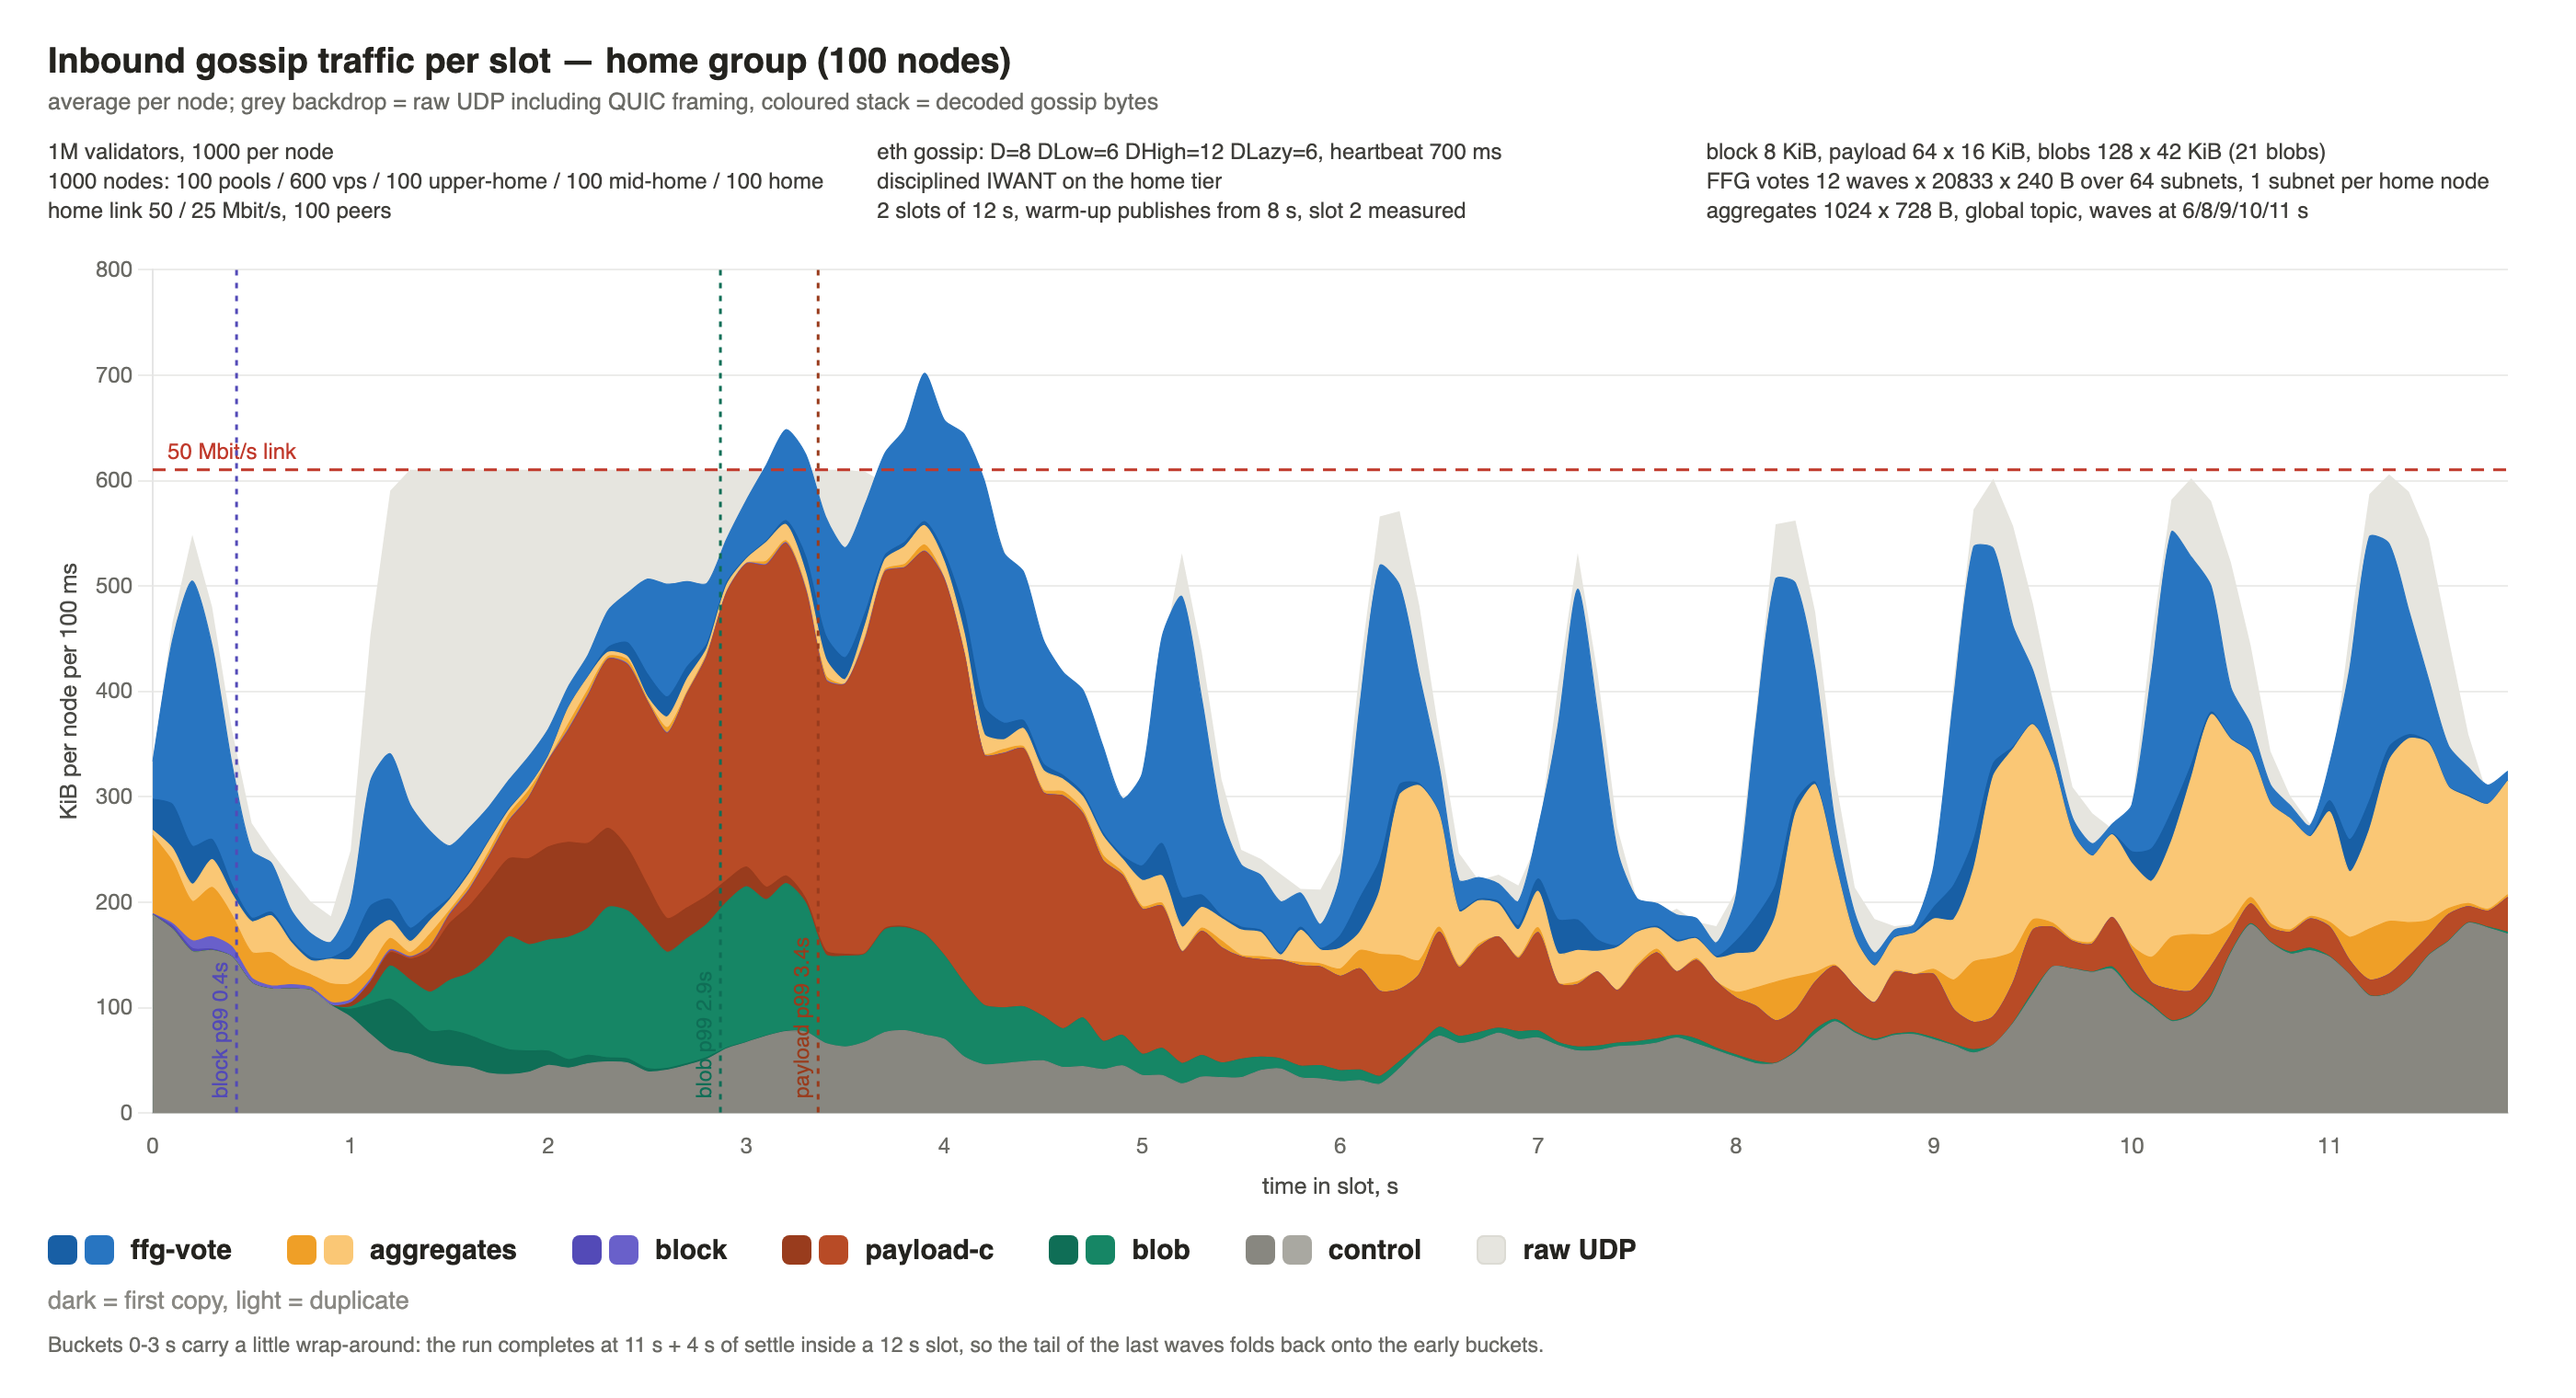
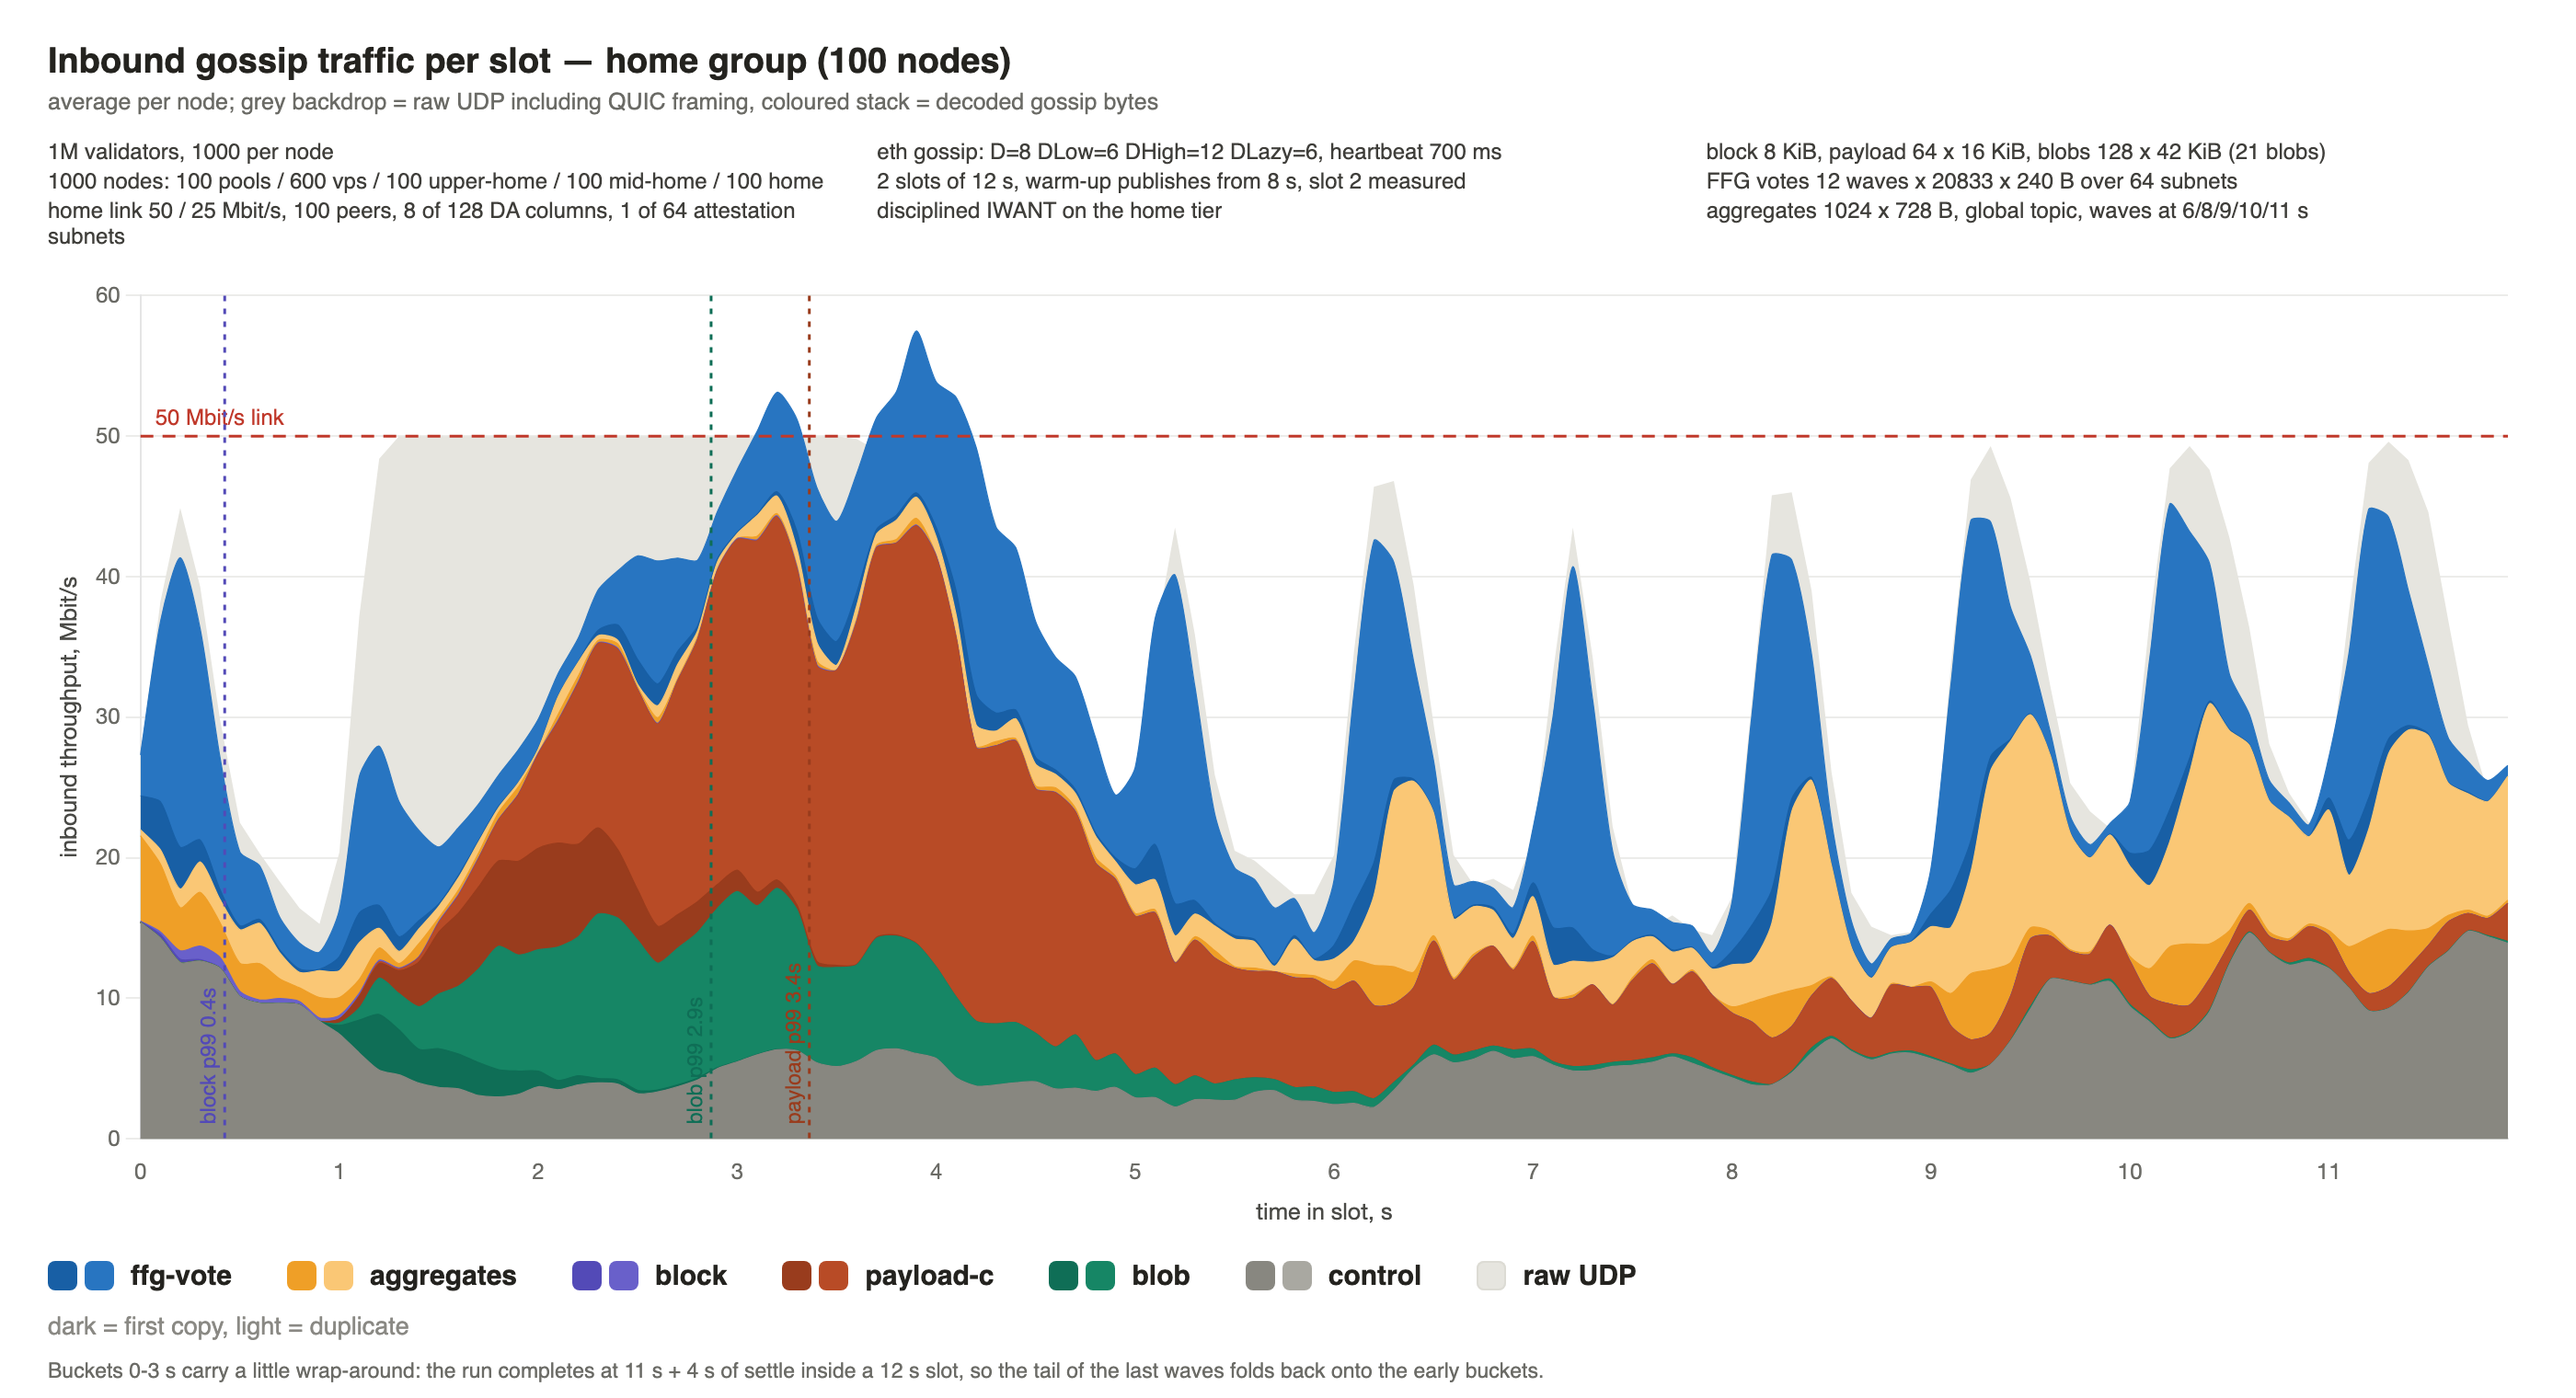
[Claude] Chart the slot profile as throughput, not bytes per bucket
KiB per 100 ms says nothing to a reader; Mbit/s does, and on that axis a
tier's capacity is the number printed on its link -- the raw UDP curve now
tops out exactly on the 50 Mbit/s line. Re-renders all four panels and
converts the utilisation table and the control figures in the text.

diff --git a/dc-slot-traffic-writeup.md b/dc-slot-traffic-writeup.md
@@ -140,20 +140,21 @@ Notes on the two attestation rows, which are the fast-finality-specific part:
 
 ## Traffic profile
 
-Inbound bytes per node, averaged over the group, in 100 ms buckets across the measured slot. The
+Inbound throughput per node, averaged over the group, in 100 ms buckets across the measured slot —
+the y axis is Mbit/s, so a tier's link capacity is the number printed on its link. The
 stack is decoded gossip, split per message type, with the first copy of a message in the darker
 shade and its duplicates in the lighter one. The grey backdrop is raw UDP — the gap between it and
 the stack is QUIC and framing overhead.
 
 How close each tier comes to its own downlink, over the measured slot:
 
-| group | link | peak bucket | peak as % of link | buckets ≥ 95% (of 120) |
+| group | link | peak throughput | peak as % of link | buckets ≥ 95% (of 120) |
 |---|---|---|---|---|
-| `validator-pools` | 10 Gbit/s | 27.5 MiB / 100 ms | 23.0% | 0 |
-| `vps` | 500 Mbit/s | 2.8 MiB / 100 ms | 47.4% | 0 |
-| `upper-home` | 200 Mbit/s | 1.6 MiB / 100 ms | 67.0% | 0 |
-| `mid-home` | 100 Mbit/s | 1.19 MiB / 100 ms | 99.7% | 9 |
-| `home` | **50 Mbit/s** | 0.60 MiB / 100 ms | **100%** | **34** |
+| `validator-pools` | 10 Gbit/s | 2303 Mbit/s | 23.0% | 0 |
+| `vps` | 500 Mbit/s | 237 Mbit/s | 47.4% | 0 |
+| `upper-home` | 200 Mbit/s | 134 Mbit/s | 67.0% | 0 |
+| `mid-home` | 100 Mbit/s | 99.7 Mbit/s | 99.7% | 9 |
+| `home` | **50 Mbit/s** | 50.0 Mbit/s | **100%** | **34** |
 
 Utilisation rises monotonically as the link narrows, and only the two home tiers touch their
 ceiling — `home` for 3.4 s of the slot, `mid-home` for 0.9 s. Everything above them has headroom to
@@ -184,7 +185,7 @@ many copies of everything it subscribes to.
 The slot has three distinct phases:
 
 1. **0 – 1 s.** The first attestation wave, the block, and a control burst at the slot boundary
-   (~190 KB per 100 ms against a ~40 KB floor mid-slot) as the heartbeat fires.
+   (~15 Mbit/s against a ~4 Mbit/s floor mid-slot) as the heartbeat fires.
 2. **1 – 4.5 s: the bulk-data window.** Payload chunks and blob columns are published at +1 s and
    the link goes to **100% of its 50 Mbit/s downlink and stays there for 34 of the slot's 120
    buckets**. Blob columns finish first (p99 at 2.9 s), payload chunks last (p99 at 3.4 s) — the
